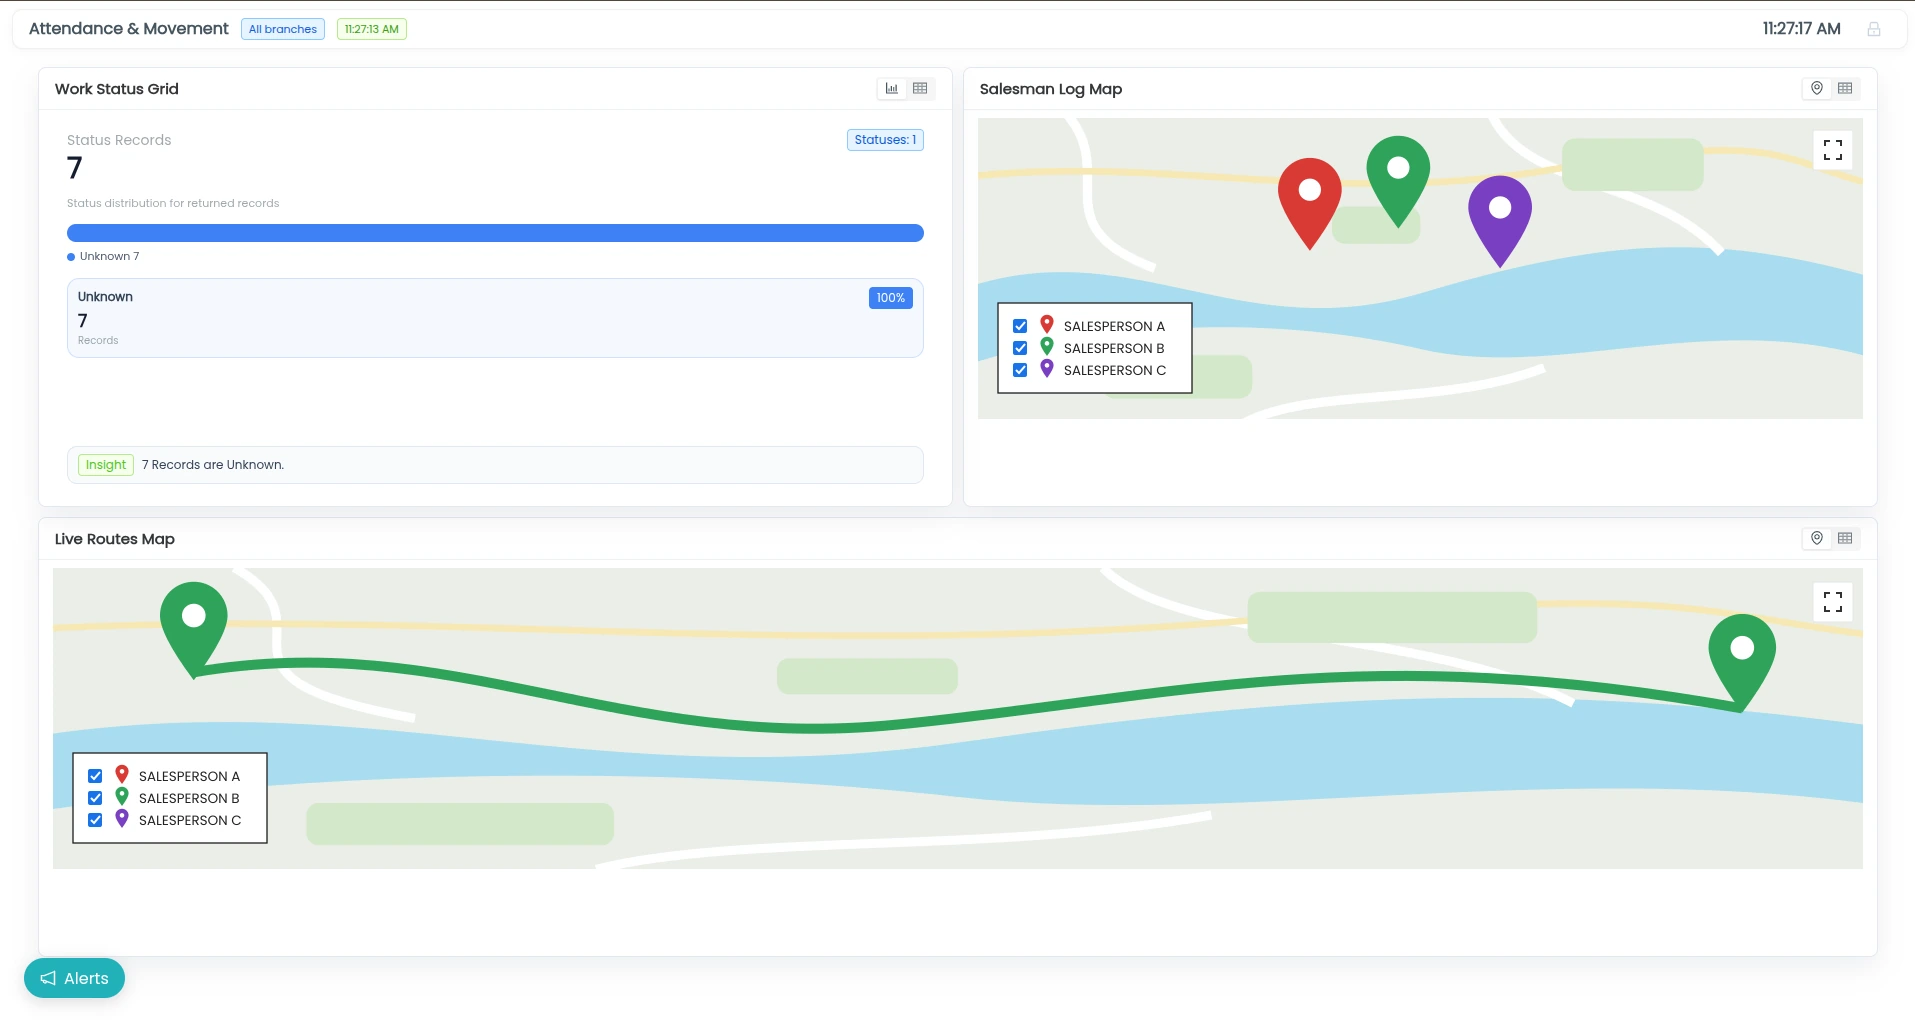
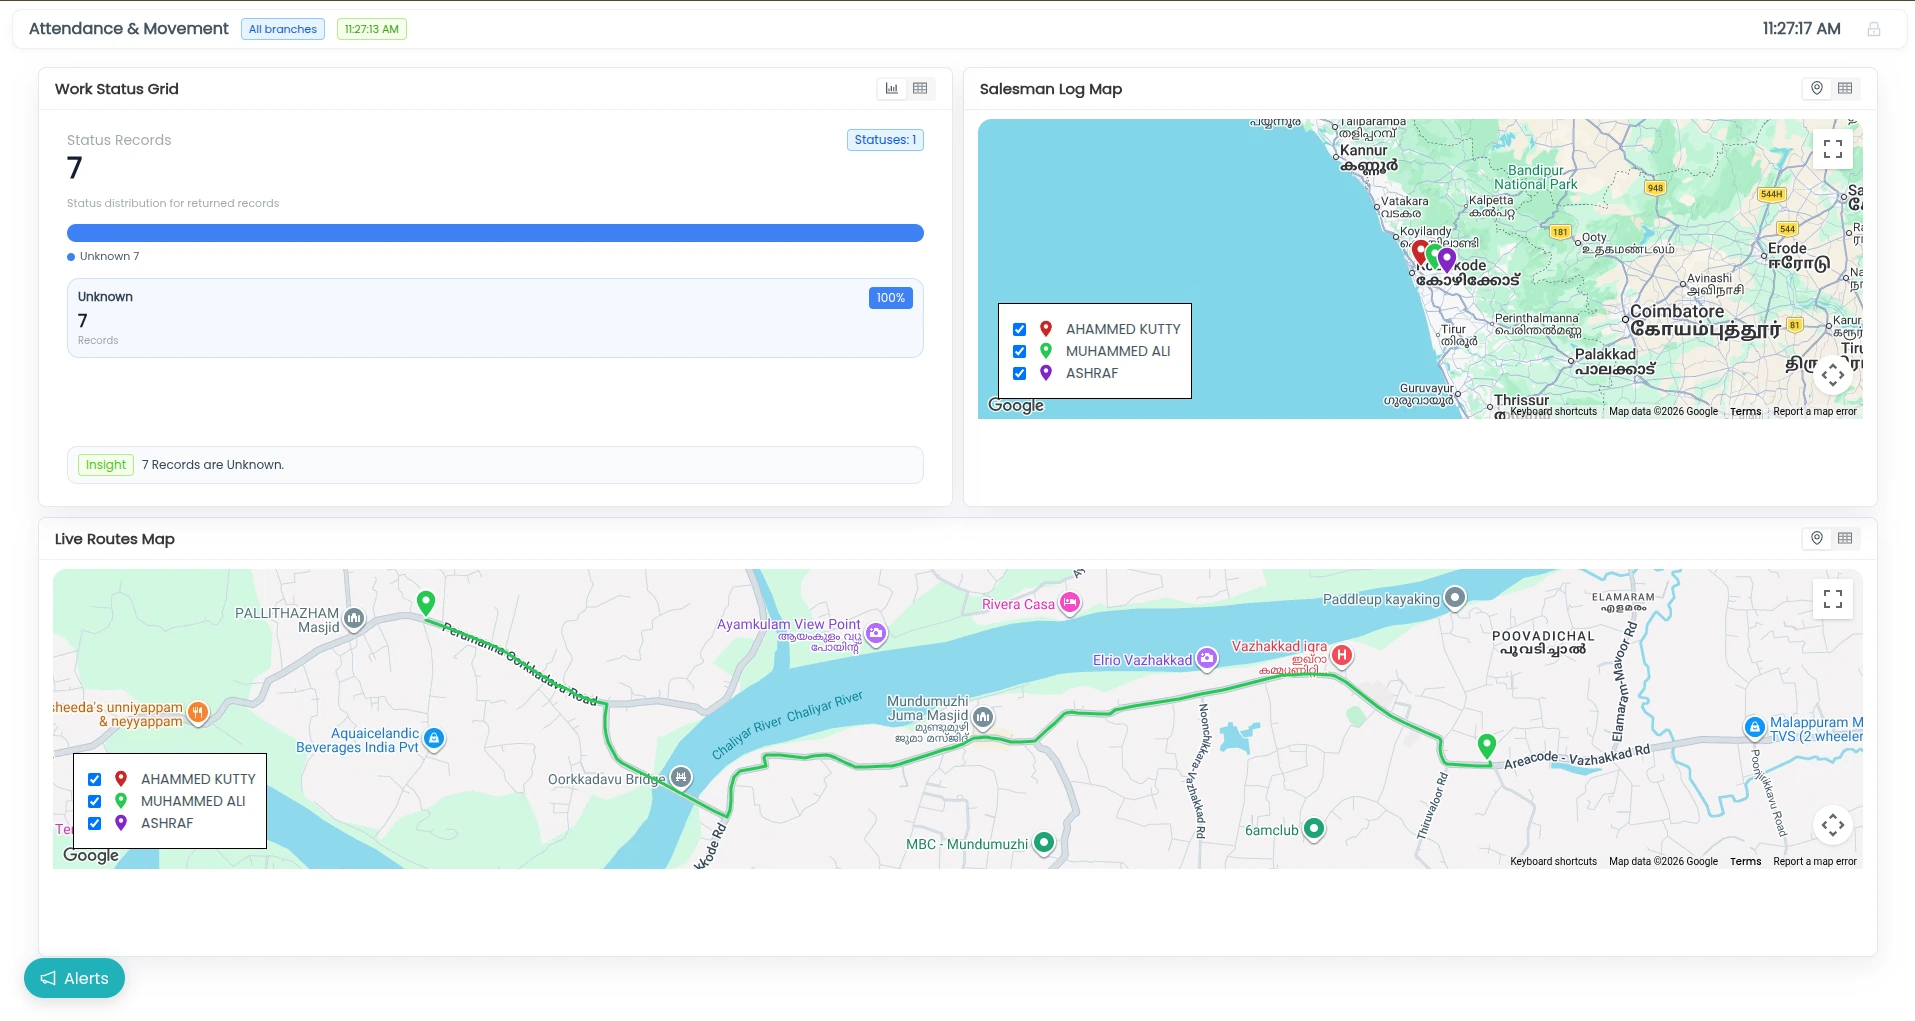
Control Room: use the original Attendance & Movement screen

diff --git a/src/components/home/ControlRoomScreens.tsx b/src/components/home/ControlRoomScreens.tsx
@@ -1,17 +1,17 @@
 import Image from "next/image";
 
 /**
- * The Vanforces Control Room screens, as images. These are anonymised copies of the real product screens: the interface is exactly the
- * product's own, and every name, number, code and map that came from a customer has been replaced with an invented one before export.
+ * The Vanforces Control Room screens, as images. The interface is exactly the
+ * product's own. All but Attendance & Movement have customer details replaced with invented ones; Attendance & Movement is the original screen.
  * The originals are kept in a private folder outside the website and are never published.
  */
 
-export const SAMPLE_NOTE = "Product screens with anonymised, illustrative data. Not customer information.";
+export const SAMPLE_NOTE = "Product screens. Data shown is for illustration.";
 
 export const screens = {
   executive: { src: "/control-room/executive.webp", w: 1920, h: 1023, alt: "Control Room Executive Overview screen with total sales, collections, credits, new customers and a revenue trend, shown with illustrative data." },
   liveOps: { src: "/control-room/live-ops.webp", w: 1915, h: 1021, alt: "Control Room Live Operations screen with live sales, collections, orders and deliveries, a route status board, an activity feed and a live routes table, shown with illustrative data." },
-  attendance: { src: "/control-room/attendance.webp", w: 1915, h: 1021, alt: "Control Room Attendance and Movement screen with a work status grid, a salesman log map and a live routes map, shown with illustrative data." },
+  attendance: { src: "/control-room/attendance.webp", w: 1915, h: 1021, alt: "Control Room Attendance and Movement screen with a work status grid, a salesman log map and a live routes map." },
   orderDelivery: { src: "/control-room/order-delivery.webp", w: 1265, h: 595, alt: "Control Room Order and Delivery Control screen with pending orders, delivery runs, an order funnel and reports, shown with illustrative data." },
   launcher: { src: "/control-room/launcher.webp", w: 1920, h: 540, alt: "Control Room Launcher listing four monitoring screens with their refresh intervals and enabled widget counts." },
 } as const;

diff --git a/src/components/home/ControlRoomSection.tsx b/src/components/home/ControlRoomSection.tsx
@@ -24,7 +24,7 @@ const rotation: ScreenKey[] = ["executive", "liveOps", "attendance", "orderDeliv
  * Control Room Monitoring as a command wall with one screen in focus. On a deep navy stage, the chosen screen is shown large and sharp
  * with a soft glow; below it a row of five thumbnails shows the whole room, with the launcher in the middle and two monitoring
  * screens either side. The large screen changes by itself every few seconds until the visitor picks one. Every screen is an anonymised copy of
- * page elements to match the real product screens, anonymised copies with invented data (the originals stay private), and labelled so.
+ * page elements to match the the real product screens, and labelled as illustration.
  * Wording avoids unproven claims: screens are "regularly refreshed", never instant.
  */
 export function ControlRoomSection() {
